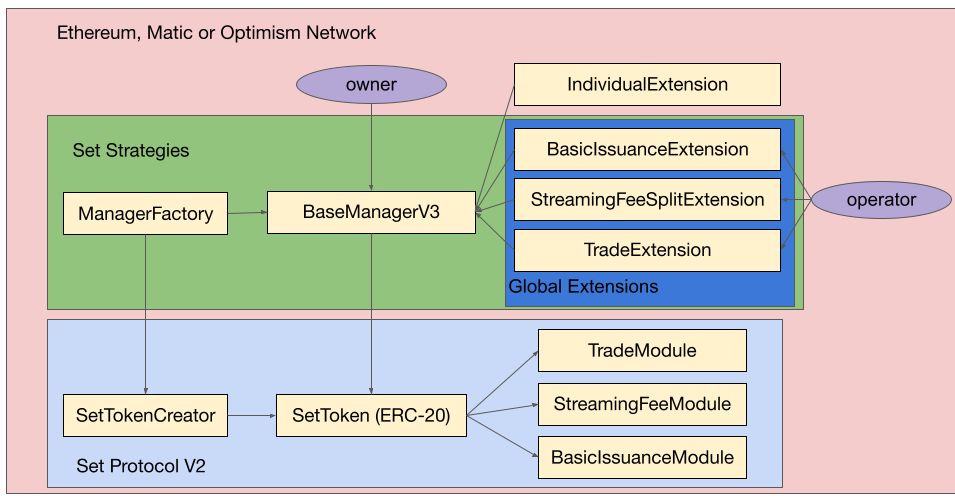
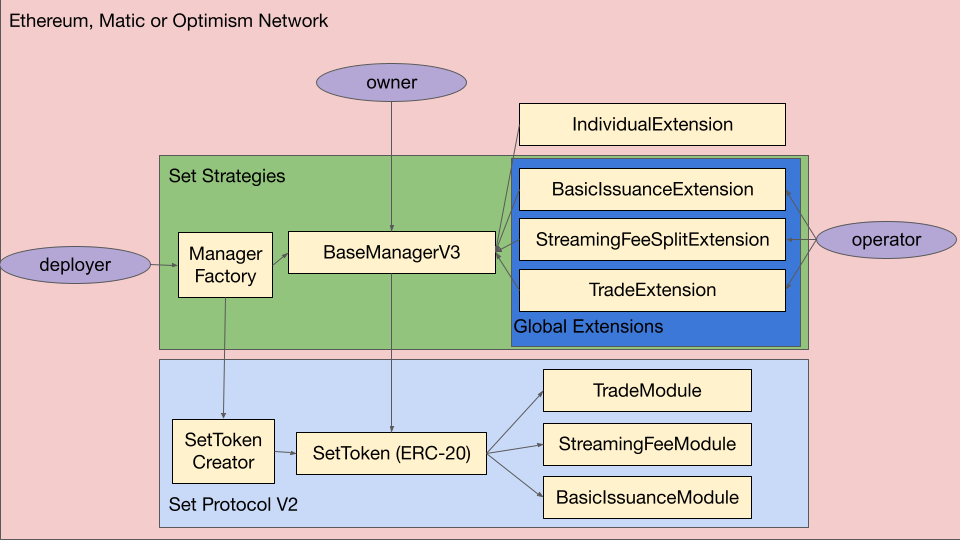
add deployer role

diff --git a/STIPS/STIP-009.md b/STIPS/STIP-009.md
@@ -74,7 +74,7 @@ The recommended solution deploys single-use, modular manager contracts from a ma
 
 ![Proposed Architecture Changes](../assets/stip-009/image1.png "")
 
-**ManagerFactory**: Factory smart contract which provides asset managers the ability to `create` new Set Tokens with a BaseManagerV3 manager, `migrate` existing Set Tokens to a BaseManagerV3 manager, and `initialize` modules and enable extensions.
+**ManagerFactory**: Factory smart contract which provides asset managers (`deployer`) the ability to `create` new Set Tokens with a BaseManagerV3 manager, `migrate` existing Set Tokens to a BaseManagerV3 manager, and `initialize` modules and enable extensions.
 
 **BaseManagerV3**: Manager smart contract which provides asset managers three permissioned roles (`owner`, `methodologist`, `operator`) and asset whitelist functionality. The `owner` grants permissions to `operator`(s) to interact with extensions. The `owner` can restrict the `operator`(s) permissions with an asset whitelist.
 
@@ -88,10 +88,10 @@ The recommended solution deploys single-use, modular manager contracts from a ma
 
 **ManagerFactory**
 
-- Allow `owner` to create new set tokens with a manager smart contract
-- Allow `owner` to migrate existing set tokens to a manager smart contract
-- Allow `owner` to enable extensions and initialize corresponding modules
-- Allow `owner` to create manager smart contract and initialize and parameterize all modules and extensions in two transactions
+- Allow `deployer` to create new set tokens with a manager smart contract
+- Allow `deployer` to migrate existing set tokens to a manager smart contract
+- Allow `deployer` to enable extensions and initialize corresponding modules
+- Allow `deployer` to create manager smart contract and initialize and parameterize all modules and extensions in two transactions
 
 **BaseManagerV3**
 
@@ -129,9 +129,9 @@ The recommended solution deploys single-use, modular manager contracts from a ma
 
 ![ManagerFactory create](../assets/stip-009/image2.png "")
 
-An `owner` wants to create a new Set Token with a BaseManagerV3 smart contract manager.
+An `deployer` wants to create a new Set Token with a BaseManagerV3 smart contract manager.
 
-1. The `owner` calls create() passing in parameters to create a Set Token, parameters for the permissioning on BaseManagerV3, and the desired extensions. Specifically,
+1. The `deployer` calls create() passing in parameters to create a Set Token, parameters for the permissioning on BaseManagerV3, and the desired extensions. Specifically,
 
     - components: List of addresses of components for initial positions
     - units: List of units for initial positions
@@ -146,16 +146,15 @@ An `owner` wants to create a new Set Token with a BaseManagerV3 smart contract m
 
 2. A Set Token is deployed using SetTokenCreator
 3. A BaseManagerV3 is deployed with the ManagerFactory as the temporary `owner` until after initialization
-4. The `owner` and `msg.sender` for the Set Token are stored on the Factory and BaseManagerV3
-5. The Set Token and Manager are put in pending state on the Factory
+4. The `deployer`, `owner`, and BaseManagerV3 are stored on the Factory in pending state
 
 ### ManagerFactory.migrate()
 
 ![ManagerFactory migrate](../assets/stip-009/image3.png "")
 
-An `owner` wants to migrate an existing Set Token to a BaseManagerV3 smart contract manager.
+An `deployer` wants to migrate an existing Set Token to a BaseManagerV3 smart contract manager.
 
-1. The `owner` calls migrate() passing in the Set Token address, parameters for the permissioning on BaseManagerV3, and the desired extensions. Specifically,
+1. The `deployer` calls migrate() passing in the Set Token address, parameters for the permissioning on BaseManagerV3, and the desired extensions. Specifically,
 
     - owner: The address of the `owner`
     - methodologist: The address of the `methodologist`
@@ -164,19 +163,18 @@ An `owner` wants to migrate an existing Set Token to a BaseManagerV3 smart contr
     - extensions: List of addresses of global extensions to be enabled
 
 2. A BaseManagerV3 is deployed with the ManagerFactory as the temporary `owner` until after initialization
-3. The `owner` and `msg.sender` for the Set Token are stored on the Factory and BaseManagerV3
-4. The Set Token and Manager are put in pending state on the Factory
+3. The `deployer`, `owner`, and BaseManagerV3 are stored on the Factory in pending state
 
 ### ManagerFactory.initialize()
 
 ![ManagerFactory initialize](../assets/stip-009/image4.png "")
 
-An `owner` wants to enable all extensions and initialize all corresponding modules.
+The `deployer` wants to enable all extensions, initialize all corresponding modules, and transfer the manager `owner` role.
 
-1. The `owner` calls initialize() passing in the parameters for initializing modules and extensions
+1. The `deployer` calls initialize() passing in the parameters for initializing modules and extensions
 2. All modules are initialized via the extensions
-3. The Set Token and Manager are put in initialized state on the ManagerFactory
-4. The `owner` role is transfered from the Factory to the input `owner`
+3. The `owner` role on the BaseManagerV3 is transfered from the Factory to the input `owner`
+4. The Factory deletes in `InitializeParams` for the set token, removing it from pending state
 
 ### StreamingFeeExtension
 
@@ -195,40 +193,52 @@ An `owner` and `methodologist` want to split streaming fees with the option for 
 
 
 ## Checkpoint 2
+
 Before we spec out the contract(s) in depth we want to make sure that we are aligned on all the technical requirements and flows for contract interaction. Again the who, what, when, why should be clearly illuminated for each flow. It is up to the reviewer to determine whether we move onto the next step.
 
 **Reviewer**:
 
 Reviewer: []
+
 ## Specification
-### [Contract Name]
-#### Inheritance
-- List inherited contracts
+
+### ManagerFactory
+
 #### Structs
+
+##### InitializationParams
+
 | Type 	| Name 	| Description 	|
 |------	|------	|-------------	|
-|address|manager|Address of the manager|
-|uint256|iterations|Number of times manager has called contract|  
-#### Constants
-| Type 	| Name 	| Description 	| Value 	|
-|------	|------	|-------------	|-------	|
-|uint256|ONE    | The number one| 1       	|
+|address|deployer|Address of the deployer|
+|address|owner|Address of the owner|
+|address|manager|Address of the BaseManagerV3|
+|bool|isPending|Bool if manager in pending state|  
+
 #### Public Variables
+
 | Type 	| Name 	| Description 	|
 |------	|------	|-------------	|
-|uint256|hodlers|Number of holders of this token|
+|address|factory|Address of Set Token factory
+|
 #### Functions
+
 | Name  | Caller  | Description 	|
 |------	|------	|-------------	|
-|startRebalance|Manager|Set rebalance parameters|
-|rebalance|Trader|Rebalance SetToken|
-|ripcord|EOA|Recenter leverage ratio|
-#### Modifiers
-> onlyManager(SetToken _setToken)
-#### Functions
-> issue(SetToken _setToken, uint256 quantity) external
-- Pseudo code
+|create|deployer|Create new Set Token with a BaseManagerV3 manager|
+|migrate|deployer|Migrate existing Set Token to a BaseManagerV3 manager|
+|initialize|deployer|Initialize modules and extensions|
+
+### BaseManagerV3
+
+### BasicIssuanceExtension
+
+### StreamingFeeSplitExtension
+
+### TradeExtension
+
 ## Checkpoint 3
+
 Before we move onto the implementation phase we want to make sure that we are aligned on the spec. All contracts should be specced out, their state and external function signatures should be defined. For more complex contracts, internal function definition is preferred in order to align on proper abstractions. Reviewer should take care to make sure that all stake holders (product, app engineering) have their needs met in this stage.
 
 **Reviewer**:
